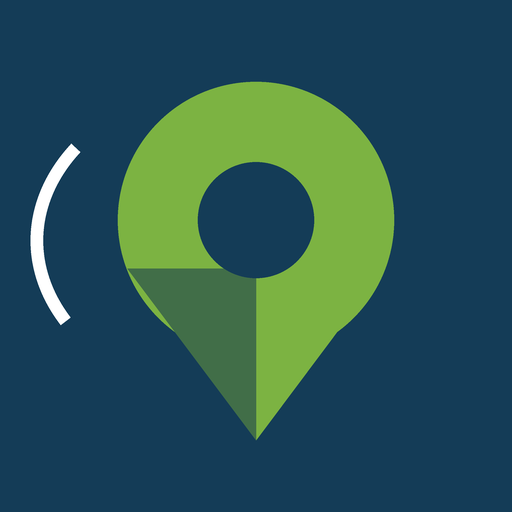
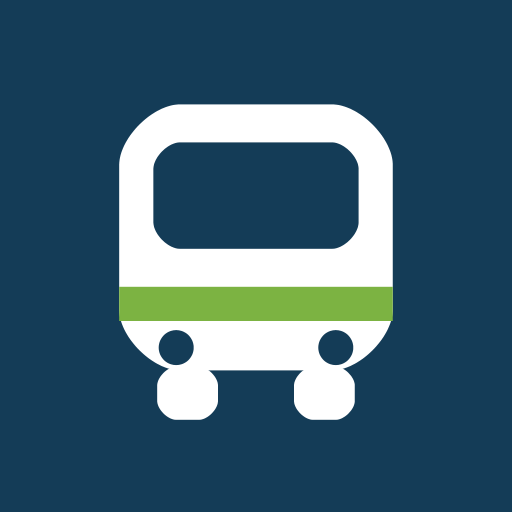
Nova identidade: Horários TUPR (não oficial) e símbolo próprio

Changed region(s): [[0.2188, 0.1562, 0.7812, 0.875], [0.0312, 0.2812, 0.1562, 0.6562]]

diff --git a/src/i18n/pt.ts b/src/i18n/pt.ts
@@ -1,12 +1,13 @@
 /** Português (original). As chaves com sufixo _one/_other usam {count}. */
 export const pt = {
+  'brand.sub': 'Não oficial · Peso da Régua',
   'a2hs.android': 'No Android: menu ⋮ do browser → “Adicionar ao ecrã principal” (ou “Instalar aplicação”).',
-  'a2hs.banner': 'Adicione o TUPR ao ecrã principal',
+  'a2hs.banner': 'Adicione os Horários TUPR ao ecrã principal',
   'a2hs.close': 'Fechar aviso',
   'a2hs.closeDialog': 'Fechar',
   'a2hs.gotIt': 'Percebi',
   'a2hs.how': 'Como?',
-  'a2hs.intro': 'Abra o TUPR com um toque, como uma aplicação, e veja os horários em segundos.',
+  'a2hs.intro': 'Abra os Horários TUPR com um toque, como uma aplicação, e veja os horários em segundos.',
   'a2hs.never': 'Já adicionei / não mostrar mais',
   'a2hs.region': 'Instalar no ecrã principal',
   'a2hs.s1': 'Toque em Partilhar',
@@ -14,7 +15,7 @@ export const pt = {
   'a2hs.s2': 'Escolha “Adicionar ao ecrã principal”',
   'a2hs.s2t': 'Deslize a lista para cima, se for preciso, até encontrar esta opção.',
   'a2hs.s3': 'Toque em “Adicionar”',
-  'a2hs.s3t': 'O ícone do TUPR aparece no seu ecrã principal.',
+  'a2hs.s3t': 'O ícone dos Horários TUPR aparece no seu ecrã principal.',
   'a2hs.safariNote': 'No iPhone isto faz-se no Safari. Se abriu este endereço noutra aplicação, copie-o e abra-o no Safari.',
   'a2hs.title': 'Adicionar ao ecrã principal (iPhone)',
   'bus.credit': 'Posição em tempo real fornecida pelo sistema de tracking do TUPR —',
@@ -52,9 +53,9 @@ export const pt = {
   'fav.removeStop': 'Remover paragem {name}',
   'fav.routes': 'Percursos favoritos',
   'fav.stops': 'Paragens favoritas',
-  'footer.about': 'Consulta de horários e planeador de viagem para os Transportes Urbanos do Peso da Régua.',
+  'footer.about': 'Horários, mapa e planeador de viagem dos autocarros urbanos do Peso da Régua (TUPR). Aplicação não oficial.',
   'footer.aboutTitle': 'Sobre este projeto',
-  'footer.independent': 'Projeto isolado da Bagatela. Feito para turistas e locais saberem exatamente a que horas perderam o autocarro.',
+  'footer.independent': 'Projeto isolado e não oficial da Bagatela. Feito para turistas e locais saberem exatamente a que horas perderam o autocarro.',
   'footer.dataNote': 'Os horários são informação pública e podem estar desatualizados; confirme sempre junto do serviço de transportes.',
   'footer.app': 'Aplicação',
   'footer.disclaimer': 'Posições das paragens aproximadas.',
@@ -69,8 +70,8 @@ export const pt = {
   'home.quick': 'Acessos rápidos',
   'home.seeAll': 'Ver todas',
   'home.seeNext': 'Ver próximos autocarros',
-  'home.subtitle': 'Consulte horários e planeie a sua viagem pela cidade.',
-  'home.title1': 'Transportes Urbanos',
+  'home.subtitle': 'Horários TUPR, não oficial: consulte horários, veja os autocarros em direto e planeie a sua viagem pela cidade.',
+  'home.title1': 'Autocarros urbanos',
   'home.title2': 'do Peso da Régua',
   'info.circular': 'As duas linhas são circulares: partem e terminam na R. Fernando Augusto Bandeira.',
   'info.clock': 'A hora usada é a do seu dispositivo.',
@@ -135,7 +136,7 @@ export const pt = {
   'map.visibleLines': 'Linhas visíveis',
   'nav.closeMenu': 'Fechar menu',
   'nav.home': 'Início',
-  'nav.homeAria': 'TUPR – Transportes Urbanos do Peso da Régua, página inicial',
+  'nav.homeAria': 'Horários TUPR (não oficial), página inicial',
   'nav.lines': 'Linhas',
   'nav.main': 'Principal',
   'nav.map': 'Mapa',

diff --git a/src/i18n/en.ts b/src/i18n/en.ts
@@ -2,13 +2,14 @@ import type { pt } from './pt'
 
 /** English. Stop names are kept in Portuguese, as in the published timetables. */
 export const en: Record<keyof typeof pt, string> = {
+  'brand.sub': 'Unofficial · Peso da Régua',
   'a2hs.android': 'On Android: browser menu ⋮ → “Add to Home screen” (or “Install app”).',
-  'a2hs.banner': 'Add TUPR to your Home Screen',
+  'a2hs.banner': 'Add Horários TUPR to your Home Screen',
   'a2hs.close': 'Dismiss notice',
   'a2hs.closeDialog': 'Close',
   'a2hs.gotIt': 'Got it',
   'a2hs.how': 'How?',
-  'a2hs.intro': 'Open TUPR with one tap, like an app, and see timetables in seconds.',
+  'a2hs.intro': 'Open Horários TUPR with one tap, like an app, and see timetables in seconds.',
   'a2hs.never': 'Already added / don’t show again',
   'a2hs.region': 'Install on Home Screen',
   'a2hs.s1': 'Tap Share',
@@ -16,7 +17,7 @@ export const en: Record<keyof typeof pt, string> = {
   'a2hs.s2': 'Choose “Add to Home Screen”',
   'a2hs.s2t': 'Scroll the list up if needed until you find this option.',
   'a2hs.s3': 'Tap “Add”',
-  'a2hs.s3t': 'The TUPR icon appears on your Home Screen.',
+  'a2hs.s3t': 'The Horários TUPR icon appears on your Home Screen.',
   'a2hs.safariNote': 'On iPhone this is done in Safari. If you opened this address in another app, copy it and open it in Safari.',
   'a2hs.title': 'Add to Home Screen (iPhone)',
   'bus.credit': 'Real-time position provided by the TUPR tracking system —',
@@ -54,9 +55,9 @@ export const en: Record<keyof typeof pt, string> = {
   'fav.removeStop': 'Remove stop {name}',
   'fav.routes': 'Favourite journeys',
   'fav.stops': 'Favourite stops',
-  'footer.about': 'Timetables and trip planner for the urban buses of Peso da Régua.',
+  'footer.about': 'Timetables, map and trip planner for the urban buses of Peso da Régua (TUPR). Unofficial app.',
   'footer.aboutTitle': 'About this project',
-  'footer.independent': 'A standalone Bagatela project. Built so tourists and locals know exactly when they missed the bus.',
+  'footer.independent': 'A standalone, unofficial Bagatela project. Built so tourists and locals know exactly when they missed the bus.',
   'footer.dataNote': 'Timetables are public information and may be out of date; always check with the transport service.',
   'footer.app': 'App',
   'footer.disclaimer': 'Stop positions are approximate.',
@@ -71,8 +72,8 @@ export const en: Record<keyof typeof pt, string> = {
   'home.quick': 'Quick links',
   'home.seeAll': 'See all',
   'home.seeNext': 'See next buses',
-  'home.subtitle': 'Check timetables and plan your trip around town.',
-  'home.title1': 'Urban Transport',
+  'home.subtitle': 'Horários TUPR, unofficial: check timetables, see the buses live and plan your trip around town.',
+  'home.title1': 'Urban buses',
   'home.title2': 'of Peso da Régua',
   'info.circular': 'Both lines are circular: they start and end at R. Fernando Augusto Bandeira.',
   'info.clock': 'Times are based on your device’s clock.',
@@ -137,7 +138,7 @@ export const en: Record<keyof typeof pt, string> = {
   'map.visibleLines': 'Visible lines',
   'nav.closeMenu': 'Close menu',
   'nav.home': 'Home',
-  'nav.homeAria': 'TUPR – Peso da Régua Urban Transport, home page',
+  'nav.homeAria': 'Horários TUPR (unofficial), home page',
   'nav.lines': 'Lines',
   'nav.main': 'Main',
   'nav.map': 'Map',

diff --git a/src/components/Logo.tsx b/src/components/Logo.tsx
@@ -1,25 +1,31 @@
-export function LogoMark({ className = 'h-9 w-9' }: { className?: string }) {
+import { useT } from '../i18n'
+
+/** Símbolo da app: um autocarro visto de frente (desenho próprio). `onDark`: versão clara para fundos escuros. */
+export function LogoMark({ className = 'h-9 w-9', onDark = false }: { className?: string; onDark?: boolean }) {
+  const sq = onDark ? '#ffffff' : '#143c57'
+  const body = onDark ? '#143c57' : '#ffffff'
   return (
-    <svg viewBox="0 0 64 64" className={className} aria-hidden="true">
-      <path d="M32 6C21.500 6 13 14 13 24.200 13 37 32 58 32 58s19-21 19-33.800C51 14 42.500 6 32 6z" fill="#7cb342" />
-      <path d="M32 58S13 37 13 24.200c0-.9.100-1.800.2-2.600L32 40z" fill="#416e48" />
-      <circle cx="32" cy="24" r="8" fill="var(--logo-hole, #fff)" />
-      <path d="M5 26C9 14 28 9 41 16 27 13 13 19 11 31 7 31 5 28 5 26z" fill="var(--logo-swoosh, #143c57)" />
+    <svg viewBox="0 0 64 64" className={className} aria-hidden="true" focusable="false">
+      <rect width="64" height="64" rx="14" fill={sq} />
+      <rect x="14" y="11" width="36" height="35" rx="8" fill={body} />
+      <rect x="18.5" y="16" width="27" height="14" rx="3.5" fill={sq} />
+      <rect x="14" y="35" width="36" height="4.5" fill="#7cb342" />
+      <circle cx="21.5" cy="43" r="2.3" fill={sq} />
+      <circle cx="42.5" cy="43" r="2.3" fill={sq} />
+      <rect x="19" y="45.5" width="8" height="7" rx="2.5" fill={body} />
+      <rect x="37" y="45.5" width="8" height="7" rx="2.5" fill={body} />
     </svg>
   )
 }
 
 export function Logo({ light = false }: { light?: boolean }) {
+  const { t } = useT()
   return (
-    <span className="flex items-center gap-3" style={{ ['--logo-hole' as string]: light ? '#143c57' : 'var(--surface)', ['--logo-swoosh' as string]: light ? '#fff' : 'var(--primary)' }}>
-      <LogoMark />
+    <span className="flex items-center gap-3">
+      <LogoMark onDark={light} className="h-10 w-10 shrink-0 rounded-[0.7rem] ring-1 ring-hair" />
       <span className="flex flex-col leading-none">
-        <span className={`font-display text-[1.65rem] font-extrabold tracking-[0.18em] ${light ? 'text-white' : 'text-primary'}`}>TUPR</span>
-        <span className={`mt-1 text-[0.6rem] font-semibold uppercase leading-[1.3] tracking-[0.1em] ${light ? 'text-white/85' : 'text-muted'}`}>
-          Transportes Urbanos
-          <br />
-          Peso da Régua
-        </span>
+        <span className={`font-display text-[1.3rem] font-extrabold tracking-tight ${light ? 'text-white' : 'text-primary'}`}>Horários TUPR</span>
+        <span className={`mt-1.5 text-[0.6rem] font-semibold uppercase leading-[1.2] tracking-[0.12em] ${light ? 'text-white/80' : 'text-muted'}`}>{t('brand.sub')}</span>
       </span>
     </span>
   )

diff --git a/src/components/Splash.tsx b/src/components/Splash.tsx
@@ -1,4 +1,5 @@
 import { useEffect, useState } from 'react'
+import { tr } from '../i18n'
 import { LogoMark } from './Logo'
 
 const KEY = 'tupr:intro'
@@ -11,7 +12,7 @@ const seen = () => {
   }
 }
 
-/** Autocarro TUPR (desenho próprio). As rodas giram através de CSS (.wheel). */
+/** Autocarro (desenho próprio). As rodas giram através de CSS (.wheel). */
 function Bus() {
   return (
     <svg viewBox="0 0 280 120" className="splash-bus-svg block h-full w-full" aria-hidden="true">
@@ -44,7 +45,7 @@ function Bus() {
 }
 
 /**
- * Abertura: um autocarro TUPR atravessa o ecrã e, à sua passagem, a página vai aparecendo.
+ * Abertura: um autocarro atravessa o ecrã e, à sua passagem, a página vai aparecendo.
  * Só aparece uma vez por sessão e não aparece com "reduzir movimento".
  */
 export function Splash() {
@@ -63,10 +64,10 @@ export function Splash() {
   if (!show) return null
   return (
     <div className="splash" aria-hidden="true" onClick={() => setShow(false)} onAnimationEnd={(e) => e.animationName === 'splash-wipe' && setShow(false)}>
-      <div className="splash-brand" style={{ ['--logo-hole' as string]: '#143c57', ['--logo-swoosh' as string]: '#fff' }}>
-        <LogoMark className="h-20 w-20 sm:h-24 sm:w-24" />
-        <span className="font-display text-5xl font-extrabold tracking-[0.2em] text-white sm:text-6xl">TUPR</span>
-        <span className="mt-1 text-[0.7rem] font-semibold uppercase tracking-[0.25em] text-white/80 sm:text-xs">Transportes Urbanos · Peso da Régua</span>
+      <div className="splash-brand" >
+        <LogoMark onDark className="h-20 w-20 rounded-2xl sm:h-24 sm:w-24" />
+        <span className="font-display text-4xl font-extrabold tracking-tight text-white sm:text-6xl">Horários TUPR</span>
+        <span className="mt-1 text-[0.7rem] font-semibold uppercase tracking-[0.25em] text-white/80 sm:text-xs">{tr('brand.sub')}</span>
       </div>
       <div className="splash-road" />
       <div className="splash-bus">

diff --git a/index.html b/index.html
@@ -4,15 +4,15 @@
     <meta charset="UTF-8" />
     <link rel="icon" type="image/svg+xml" href="./favicon.svg" />
     <meta name="viewport" content="width=device-width, initial-scale=1, viewport-fit=cover" />
-    <meta name="description" content="Horários e planeador de viagem dos Transportes Urbanos do Peso da Régua (TUPR). Linha Verde e Linha Vermelha." />
+    <meta name="description" content="Horários TUPR (não oficial): horários, autocarros em direto e planeador de viagem dos autocarros urbanos do Peso da Régua. Linha Verde e Linha Vermelha." />
     <meta name="theme-color" content="#143c57" />
     <link rel="manifest" href="./manifest.webmanifest" />
     <link rel="apple-touch-icon" href="./apple-touch-icon.png" />
     <meta name="apple-mobile-web-app-capable" content="yes" />
     <meta name="mobile-web-app-capable" content="yes" />
-    <meta name="apple-mobile-web-app-title" content="TUPR" />
+    <meta name="apple-mobile-web-app-title" content="Horários TUPR" />
     <meta name="apple-mobile-web-app-status-bar-style" content="default" />
-    <title>TUPR · Transportes Urbanos do Peso da Régua</title>
+    <title>Horários TUPR · não oficial</title>
     <script>
       try {
         if (localStorage.getItem('tupr:theme') === 'dark') document.documentElement.classList.add('dark')

diff --git a/src/components/InstallBanner.tsx b/src/components/InstallBanner.tsx
@@ -65,9 +65,7 @@ export function InstallBanner() {
   return (
     <>
       <div role="region" aria-label={t('a2hs.region')} className="flex items-center gap-2 bg-primary px-3 py-2 text-on-primary">
-        <span className="flex h-9 w-9 shrink-0 items-center justify-center rounded-xl bg-white/15" style={{ ['--logo-hole' as string]: '#143c57', ['--logo-swoosh' as string]: '#fff' }}>
-          <LogoMark className="h-6 w-6" />
-        </span>
+        <LogoMark onDark className="h-9 w-9 shrink-0 rounded-xl" />
         <p className="min-w-0 flex-1 text-[0.82rem] font-semibold leading-tight">{t('a2hs.banner')}</p>
         <button onClick={() => setOpen(true)} className="min-h-10 shrink-0 rounded-lg bg-white px-3 text-sm font-bold text-[#143c57]">
           {t('a2hs.how')}

diff --git a/src/index.css b/src/index.css
@@ -131,7 +131,7 @@ html[data-vt='fade']::view-transition-new(root) { animation: vt-in 0.4s ease bot
 @keyframes vt-out { to { opacity: 0; } }
 @keyframes vt-in { from { opacity: 0; } }
 
-/* ───────── Abertura: o autocarro TUPR a passar ───────── */
+/* ───────── Abertura: o autocarro a passar ───────── */
 .splash {
   --bus-w: min(70vw, 300px);
   --dur: 2.1s;

diff --git a/README.md b/README.md
@@ -1,8 +1,8 @@
-# TUPR – Transportes Urbanos do Peso da Régua
+# Horários TUPR (não oficial)
 
 Webapp (React + Vite + TypeScript + Tailwind + Leaflet) para consultar horários, planear viagens e ver as próximas partidas do TUPR.
 
-> **Projeto isolado da Bagatela.** Os horários são informação pública e podem estar desatualizados.
+> **Projeto isolado e não oficial da Bagatela.** Os horários são informação pública e podem estar desatualizados.
 
 ```bash
 npm install
